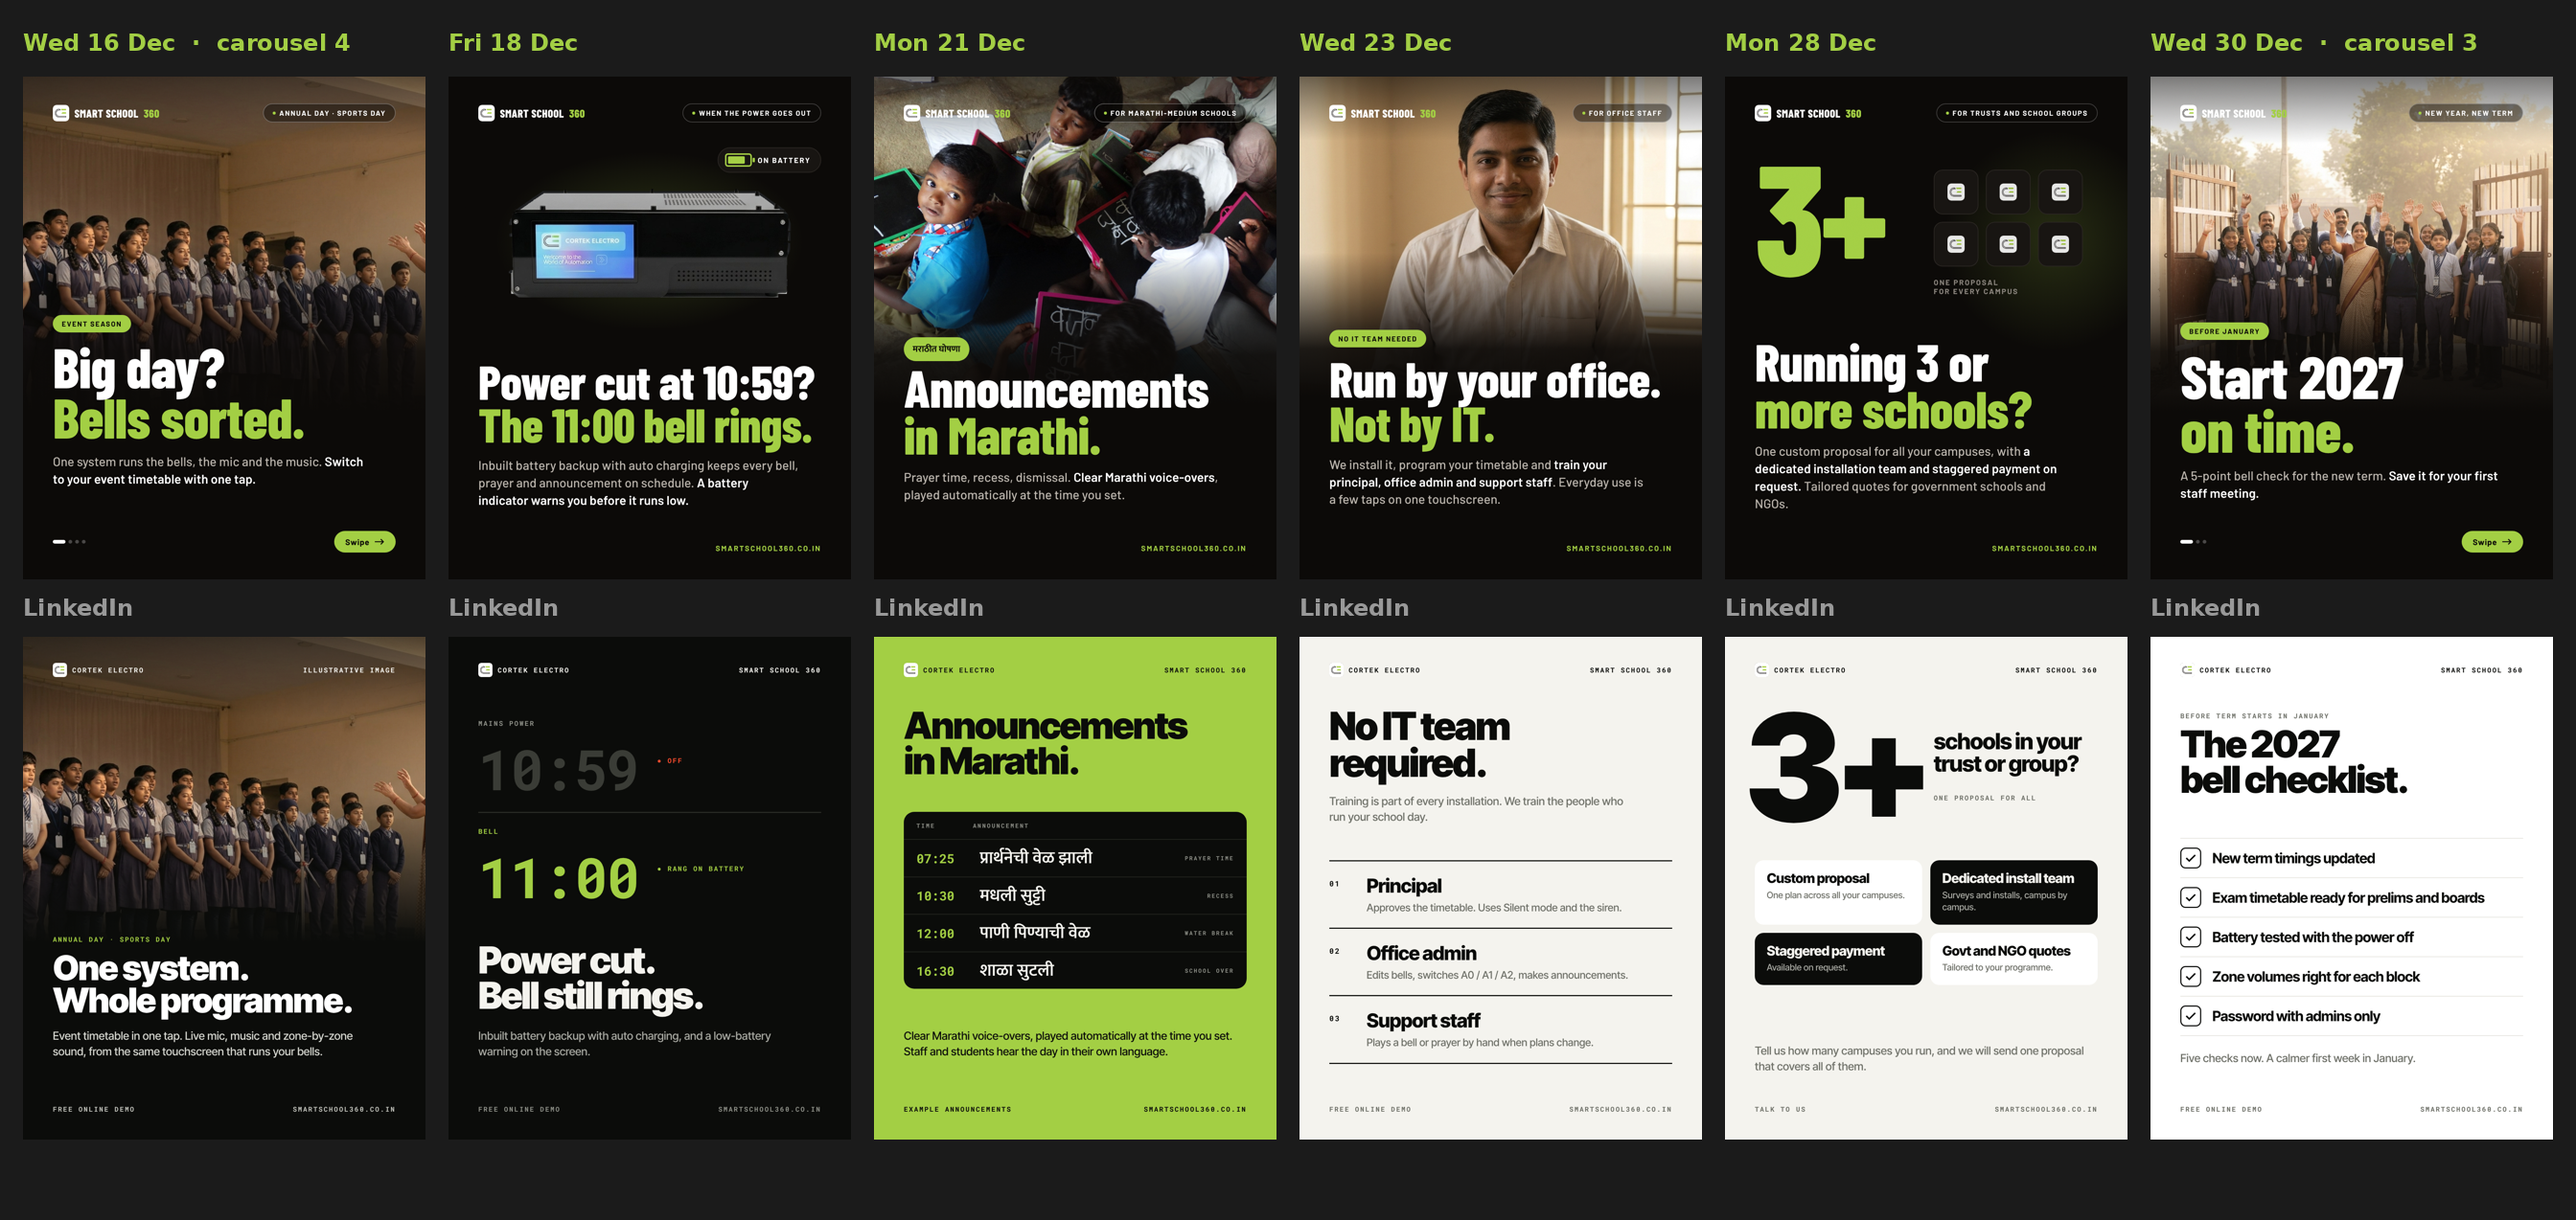
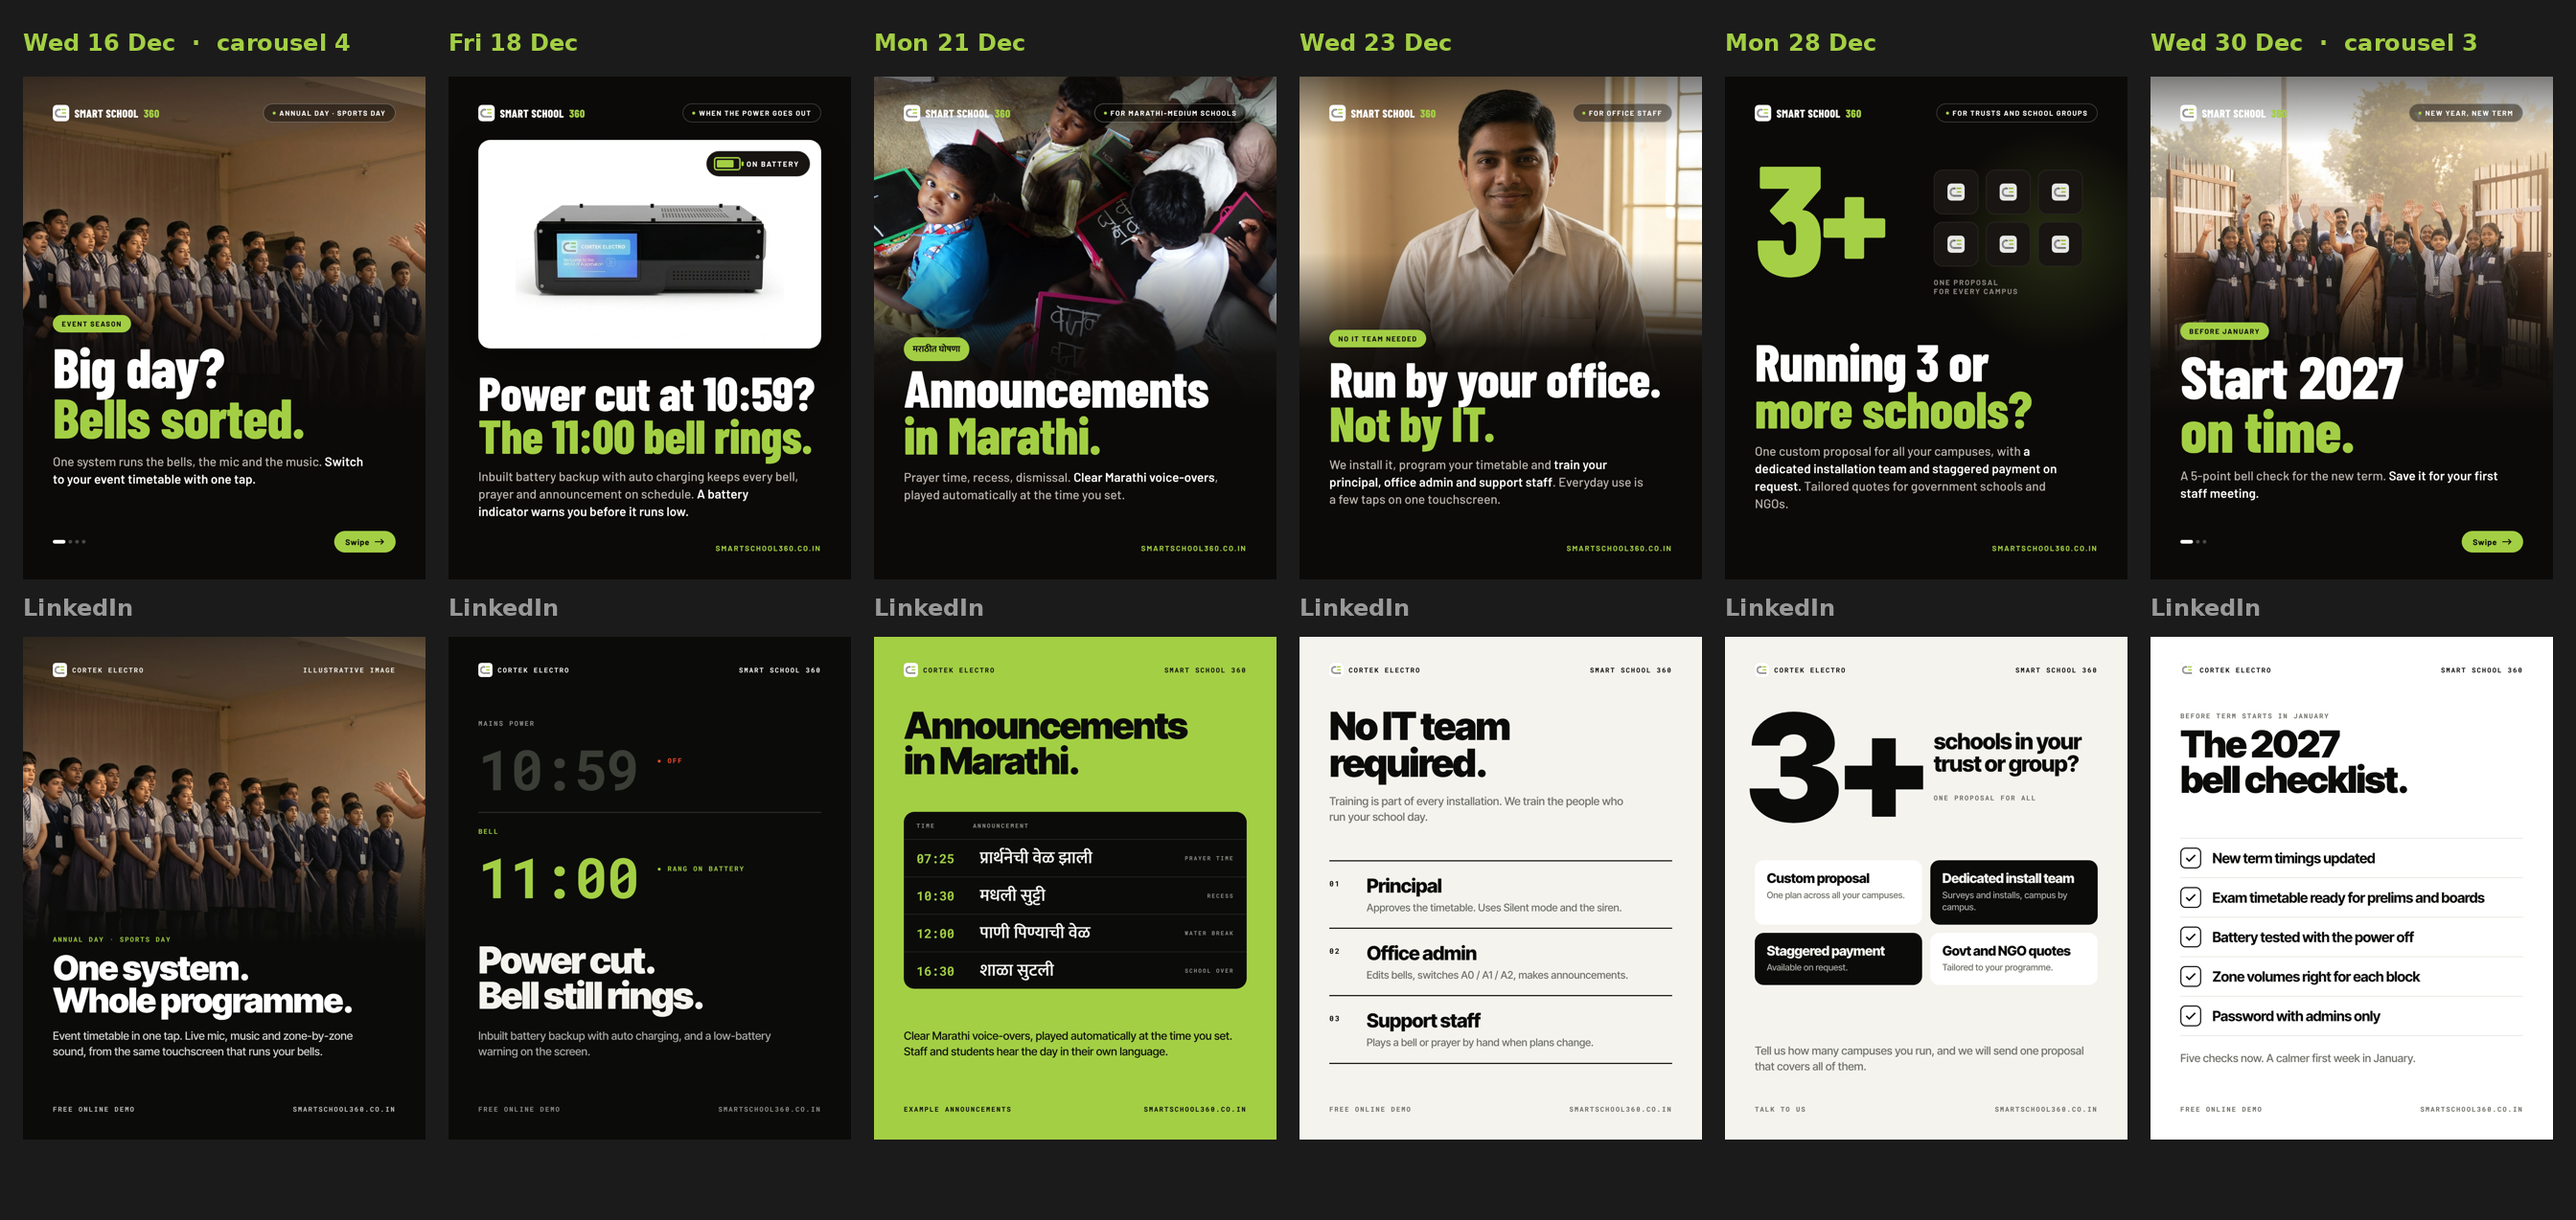
Power-cut post: product on white background
Claude-Session: https://claude.ai/code/session_011aWs4DHUhSrKXbg6G7GPhC

Changed region(s): [[0.1875, 0.0918, 0.3438, 0.4286]]

diff --git a/templates-dec-2026/gen_ig.py b/templates-dec-2026/gen_ig.py
@@ -16,11 +16,11 @@ P['post-1-annual-day']=[
 # 2. Power cut (single)
 batt='''<div style="position:absolute;left:0;right:0;top:150px;height:560px">
 <div style="position:absolute;left:50%;top:52%;width:900px;height:520px;transform:translate(-50%,-50%);background:radial-gradient(ellipse,rgba(163,207,68,.22) 0%,rgba(163,207,68,0) 65%)"></div>
-<img src=product-clean.png style="position:absolute;left:50%;top:150px;width:760px;transform:translateX(-50%)">
-<div style="position:absolute;right:80px;top:40px;display:flex;align-items:center;gap:16px;background:#171411;border:2px solid #2a2622;border-radius:999px;padding:14px 26px 14px 18px">
+<div style="position:absolute;left:80px;right:80px;top:20px;height:560px;border-radius:32px;background:#fff;overflow:hidden;box-shadow:0 30px 70px rgba(0,0,0,.5)"><img src=device-front-white.png style="position:absolute;left:50%;top:52%;width:720px;transform:translate(-50%,-50%)"></div>
+<div style="position:absolute;right:110px;top:50px;z-index:2;display:flex;align-items:center;gap:16px;background:#171411;border:2px solid #2a2622;border-radius:999px;padding:14px 26px 14px 18px">
 <div style="width:72px;height:36px;border:4px solid var(--lime);border-radius:8px;position:relative;padding:4px"><div style="width:80%;height:100%;background:var(--lime);border-radius:3px"></div><div style="position:absolute;right:-12px;top:8px;width:6px;height:12px;background:var(--lime);border-radius:2px"></div></div>
 <span style="font:700 20px Barlow;letter-spacing:3px;color:#fff">ON BATTERY</span></div></div>'''
-P['post-2-power-cut']=[cover_graphic(1,1,'When the power goes out','Power cut at 10:59?<br><span>The 11:00 bell rings.</span>','Inbuilt battery backup with auto charging keeps every bell, prayer and announcement on schedule. <b>A battery indicator warns you before it runs low.</b>',batt,top_px=760,size=128)]
+P['post-2-power-cut']=[cover_graphic(1,1,'When the power goes out','Power cut at 10:59?<br><span>The 11:00 bell rings.</span>','Inbuilt battery backup with auto charging keeps every bell, prayer and announcement on schedule. <b>A battery indicator warns you before it runs low.</b>',batt,top_px=790,size=128)]
 
 # 3. Marathi announcements (single, photo)
 P['post-3-marathi-announcements']=[cover_photo(1,1,'slates.jpg','For Marathi-medium schools','<span style="font-family:Mukta;letter-spacing:0;font-size:24px;text-transform:none">मराठीत घोषणा</span>','<style>.ph:after{background:linear-gradient(180deg,rgba(11,9,7,.6) 0%,rgba(11,9,7,0) 20%,rgba(11,9,7,0) 55%,rgba(11,9,7,.92) 85%,#0B0907 100%)!important}</style>Announcements<br><span>in Marathi.</span>','Prayer time, recess, dismissal. <b>Clear Marathi voice-overs</b>, played automatically at the time you set.',h=880,tagtop=700,copytop=770,size=140,pos='center 45%')]
